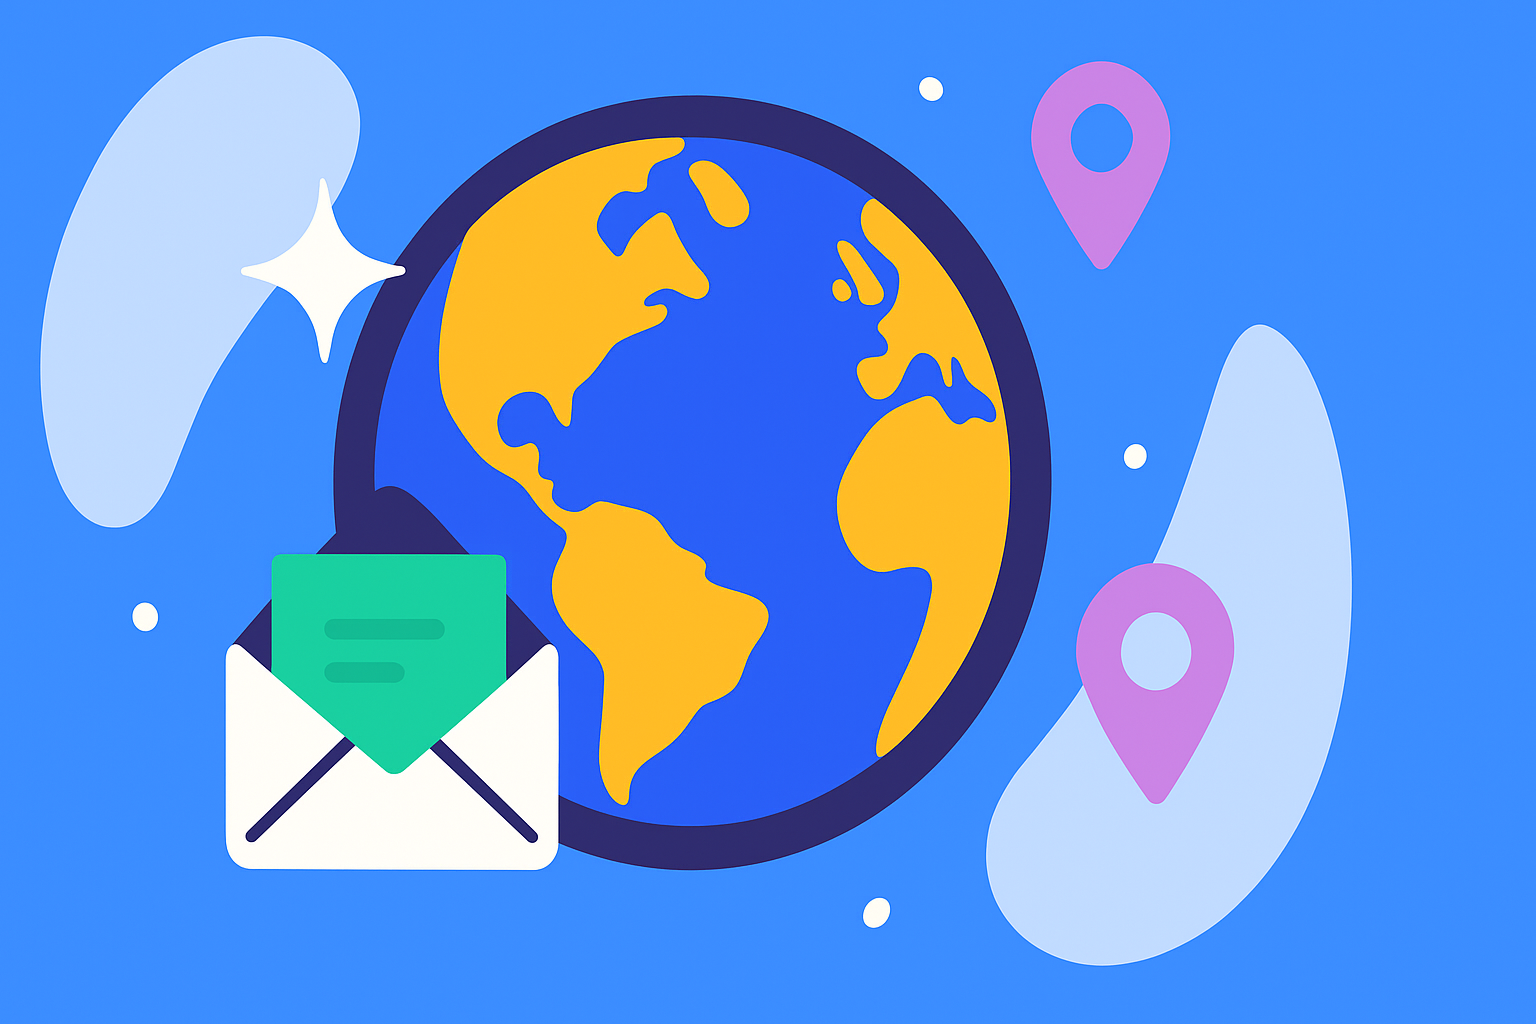
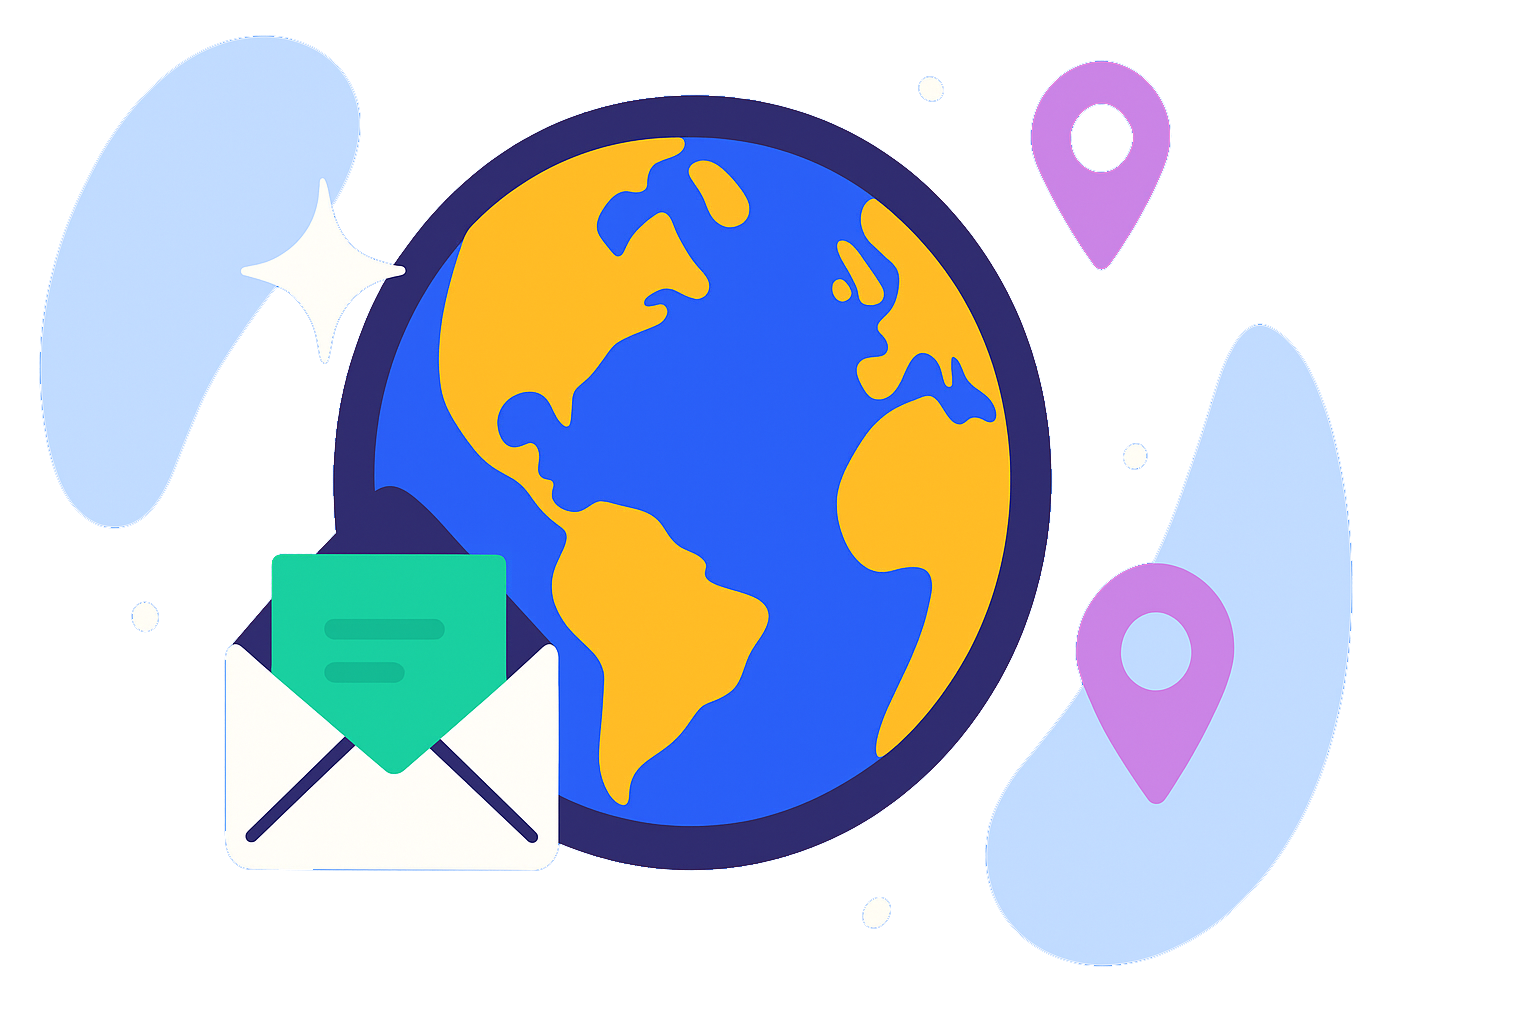
Update background colors to white for cleaner appearance

diff --git a/src/App.jsx b/src/App.jsx
@@ -904,7 +904,7 @@ const disconnectWallet = async () => {
                 New to crypto? No worries! Follow these simple steps to start funding dreams on the blockchain.
               </p>
               <div className="space-y-6">
-                <div className="bg-gray-50 rounded-2xl p-8">
+                <div className="bg-white rounded-2xl p-8">
                   <div className="flex flex-col">
                     <div className="flex items-center gap-3 mb-4">
                       <div className="w-12 h-12 bg-blue-500 rounded-full flex items-center justify-center flex-shrink-0 text-xl font-bold text-white">
@@ -935,7 +935,7 @@ const disconnectWallet = async () => {
                     </div>
                   </div>
                 </div>
-                <div className="bg-gray-50 rounded-2xl p-8">
+                <div className="bg-white rounded-2xl p-8">
                   <div className="flex flex-col">
                     <div className="flex items-center gap-3 mb-4">
                       <div className="w-12 h-12 bg-blue-500 rounded-full flex items-center justify-center flex-shrink-0 text-xl font-bold text-white">
@@ -973,7 +973,7 @@ const disconnectWallet = async () => {
                     </div>
                   </div>
                 </div>
-                <div className="bg-gray-50 rounded-2xl p-8">
+                <div className="bg-white rounded-2xl p-8">
                   <div className="flex flex-col">
                     <div className="flex items-center gap-3 mb-4">
                       <div className="w-12 h-12 bg-blue-500 rounded-full flex items-center justify-center flex-shrink-0 text-xl font-bold text-white">
@@ -1004,7 +1004,7 @@ const disconnectWallet = async () => {
                     </div>
                   </div>
                 </div>
-                <div className="bg-gray-50 rounded-2xl p-8">
+                <div className="bg-white rounded-2xl p-8">
                   <div className="flex flex-col">
                     <div className="flex items-center gap-3 mb-4">
                       <div className="w-12 h-12 bg-blue-500 rounded-full flex items-center justify-center flex-shrink-0 text-xl font-bold text-white">
@@ -1037,7 +1037,7 @@ const disconnectWallet = async () => {
                     </div>
                   </div>
                 </div>
-                <div className="bg-gray-50 rounded-2xl p-8">
+                <div className="bg-white rounded-2xl p-8">
                   <div className="flex flex-col">
                     <div className="flex items-center gap-3 mb-4">
                       <div className="w-12 h-12 bg-blue-500 rounded-full flex items-center justify-center flex-shrink-0 text-xl font-bold text-white">
@@ -1073,7 +1073,7 @@ const disconnectWallet = async () => {
                   </div>
                 </div>
               </div>
-              <div className="mt-12 bg-gray-50 rounded-2xl p-8 text-center">
+              <div className="mt-12 bg-white rounded-2xl p-8 text-center">
                 <h3 className="text-2xl font-bold mb-3 text-black">Ready to Start?</h3>
                 <p className="text-gray-600 mb-6">
                   Jump into the world of transparent, blockchain-powered crowdfunding!
@@ -1406,7 +1406,7 @@ const disconnectWallet = async () => {
               </div>
             </div>
             {filteredCampaigns.length === 0 ? <div className="text-center py-20">
-                <div className="w-20 h-20 bg-gray-100 rounded-full flex items-center justify-center mx-auto mb-4">
+                <div className="w-20 h-20 bg-white rounded-full flex items-center justify-center mx-auto mb-4">
                   <Rocket className="w-10 h-10 text-gray-400" />
                 </div>
                 <p className="text-xl text-gray-600">
@@ -1494,7 +1494,7 @@ const disconnectWallet = async () => {
             </div>
             {profileFilter === 'campaigns' ? <>
               {userCampaigns.length === 0 ? <div className="text-center py-20">
-                  <div className="w-20 h-20 bg-gray-100 rounded-full flex items-center justify-center mx-auto mb-4">
+                  <div className="w-20 h-20 bg-white rounded-full flex items-center justify-center mx-auto mb-4">
                     <Rocket className="w-10 h-10 text-gray-400" />
                   </div>
                   <p className="text-xl text-gray-600 mb-4">You haven't created any campaigns yet</p>
@@ -1553,7 +1553,7 @@ const disconnectWallet = async () => {
                 </div>}
             </> : <>
               {userDonations.length === 0 ? <div className="text-center py-20">
-                  <div className="w-20 h-20 bg-gray-100 rounded-full flex items-center justify-center mx-auto mb-4">
+                  <div className="w-20 h-20 bg-white rounded-full flex items-center justify-center mx-auto mb-4">
                     <DollarSign className="w-10 h-10 text-gray-400" />
                   </div>
                   <p className="text-xl text-gray-600">No donations yet</p>
